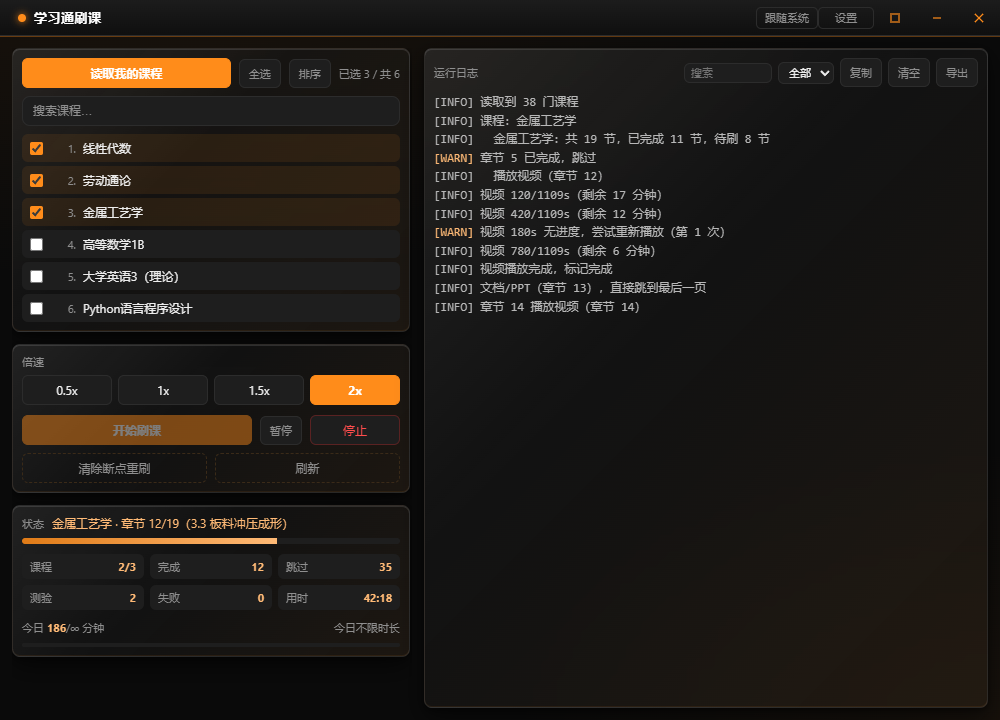
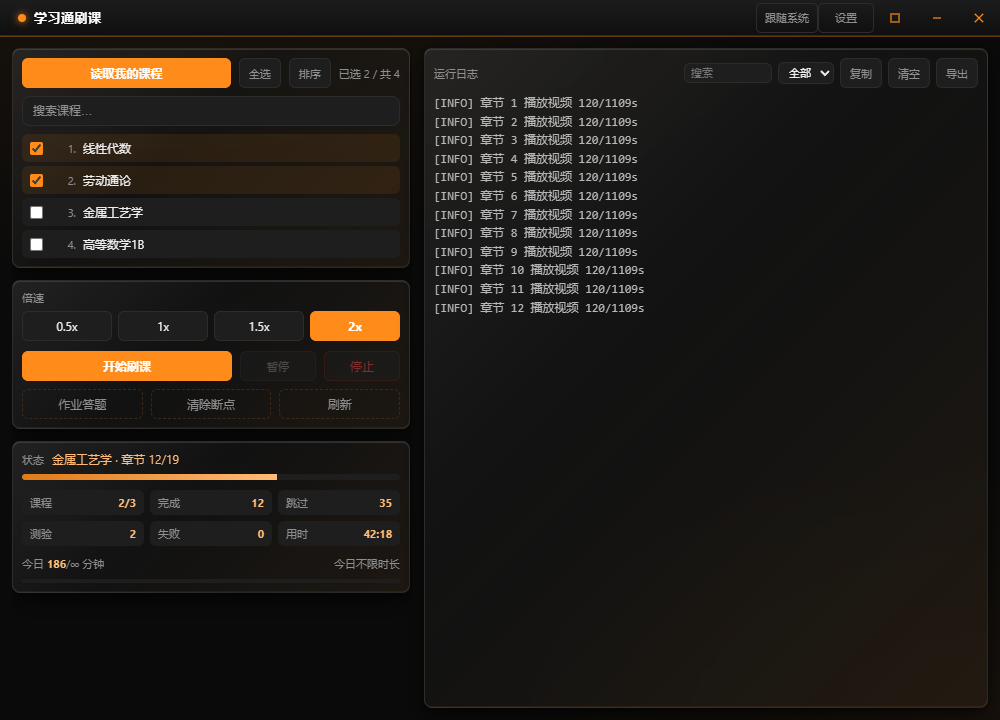
style: UI 视觉对齐（统一按钮高度、操作行等宽、数字等宽字体、日志行高）

diff --git a/web/style.css b/web/style.css
@@ -239,6 +239,7 @@ button {
   background: var(--panel2);
   color: var(--text);
   padding: 6px 10px;
+  min-height: 30px;
   transition: .15s;
 }
 button:hover:not(:disabled) { border-color: var(--accent); color: var(--hover-text); }
@@ -308,7 +309,13 @@ button:disabled { opacity: .45; cursor: not-allowed; }
 }
 .course-item input { accent-color: var(--accent); }
 .course-item .cname { flex: 1; overflow: hidden; text-overflow: ellipsis; white-space: nowrap; }
-.course-item .cnum { color: var(--muted); font-size: 11px; min-width: 26px; text-align: right; }
+.course-item .cnum {
+  color: var(--muted);
+  font-size: 11px;
+  min-width: 26px;
+  text-align: right;
+  font-variant-numeric: tabular-nums;
+}
 .empty { color: var(--muted); text-align: center; padding: 14px; font-size: 12px; }
 
 /* 倍速 */
@@ -626,6 +633,7 @@ button:disabled { opacity: .45; cursor: not-allowed; }
   outline: none;
 }
 .log-search:focus { border-color: var(--accent); }
+.log > div { line-height: 1.55; }
 .log > div:hover { background: rgba(255, 140, 26, 0.06); }
 .log {
   flex: 1; overflow-y: auto;
@@ -645,6 +653,10 @@ button:disabled { opacity: .45; cursor: not-allowed; }
   font-size: 11px;
   color: var(--muted);
 }
+/* 操作行：开始占满，暂停/停止等宽对齐 */
+#btnStart { flex: 1 1 auto; }
+#btnPause, #btnStop, #btnRetry { flex: 0 0 76px; }
+#btnPause { font-size: 11px; }
 .mini:hover:not(:disabled) { color: var(--accent); border-color: var(--accent); }
 .mini.active { color: var(--accent); border-color: var(--accent); font-weight: 700; }
 
@@ -666,7 +678,11 @@ button:disabled { opacity: .45; cursor: not-allowed; }
   font-size: 11px;
   color: var(--muted);
 }
-.stat-cell b { color: var(--accent3); font-weight: 700; }
+.stat-cell b {
+  color: var(--accent3);
+  font-weight: 700;
+  font-variant-numeric: tabular-nums;
+}
 .daily-line {
   display: flex;
   justify-content: space-between;
